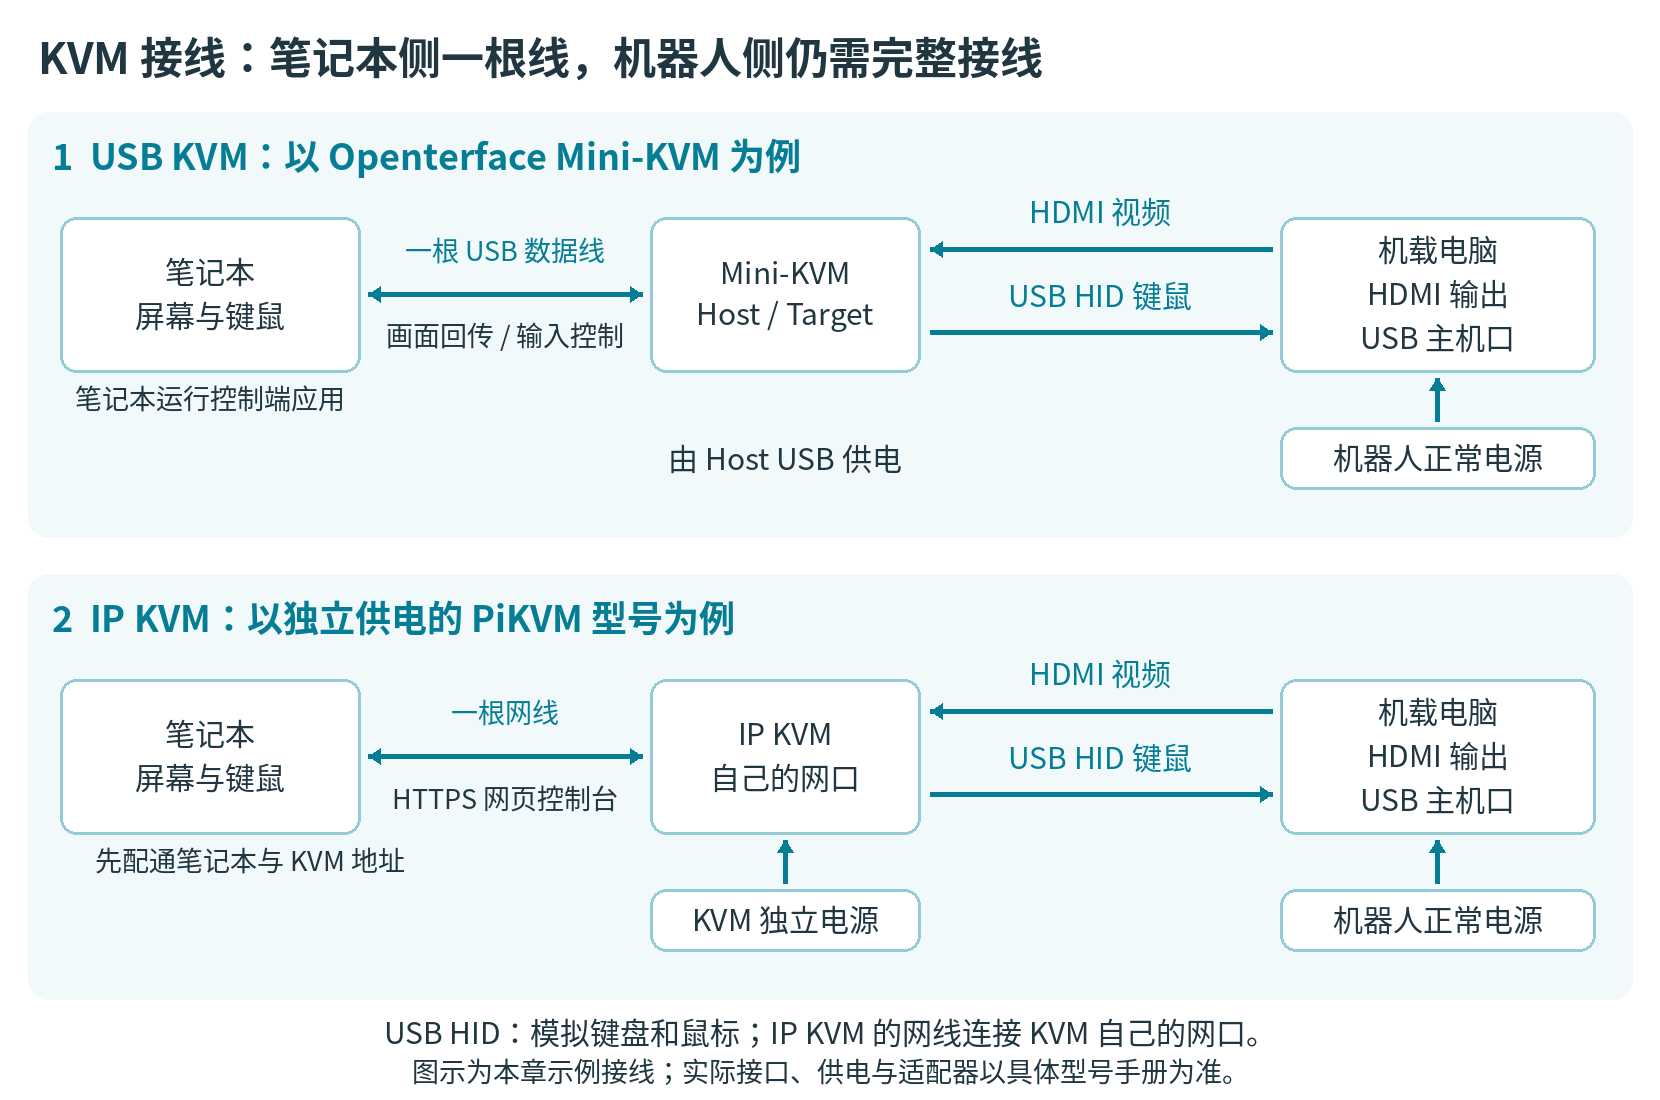
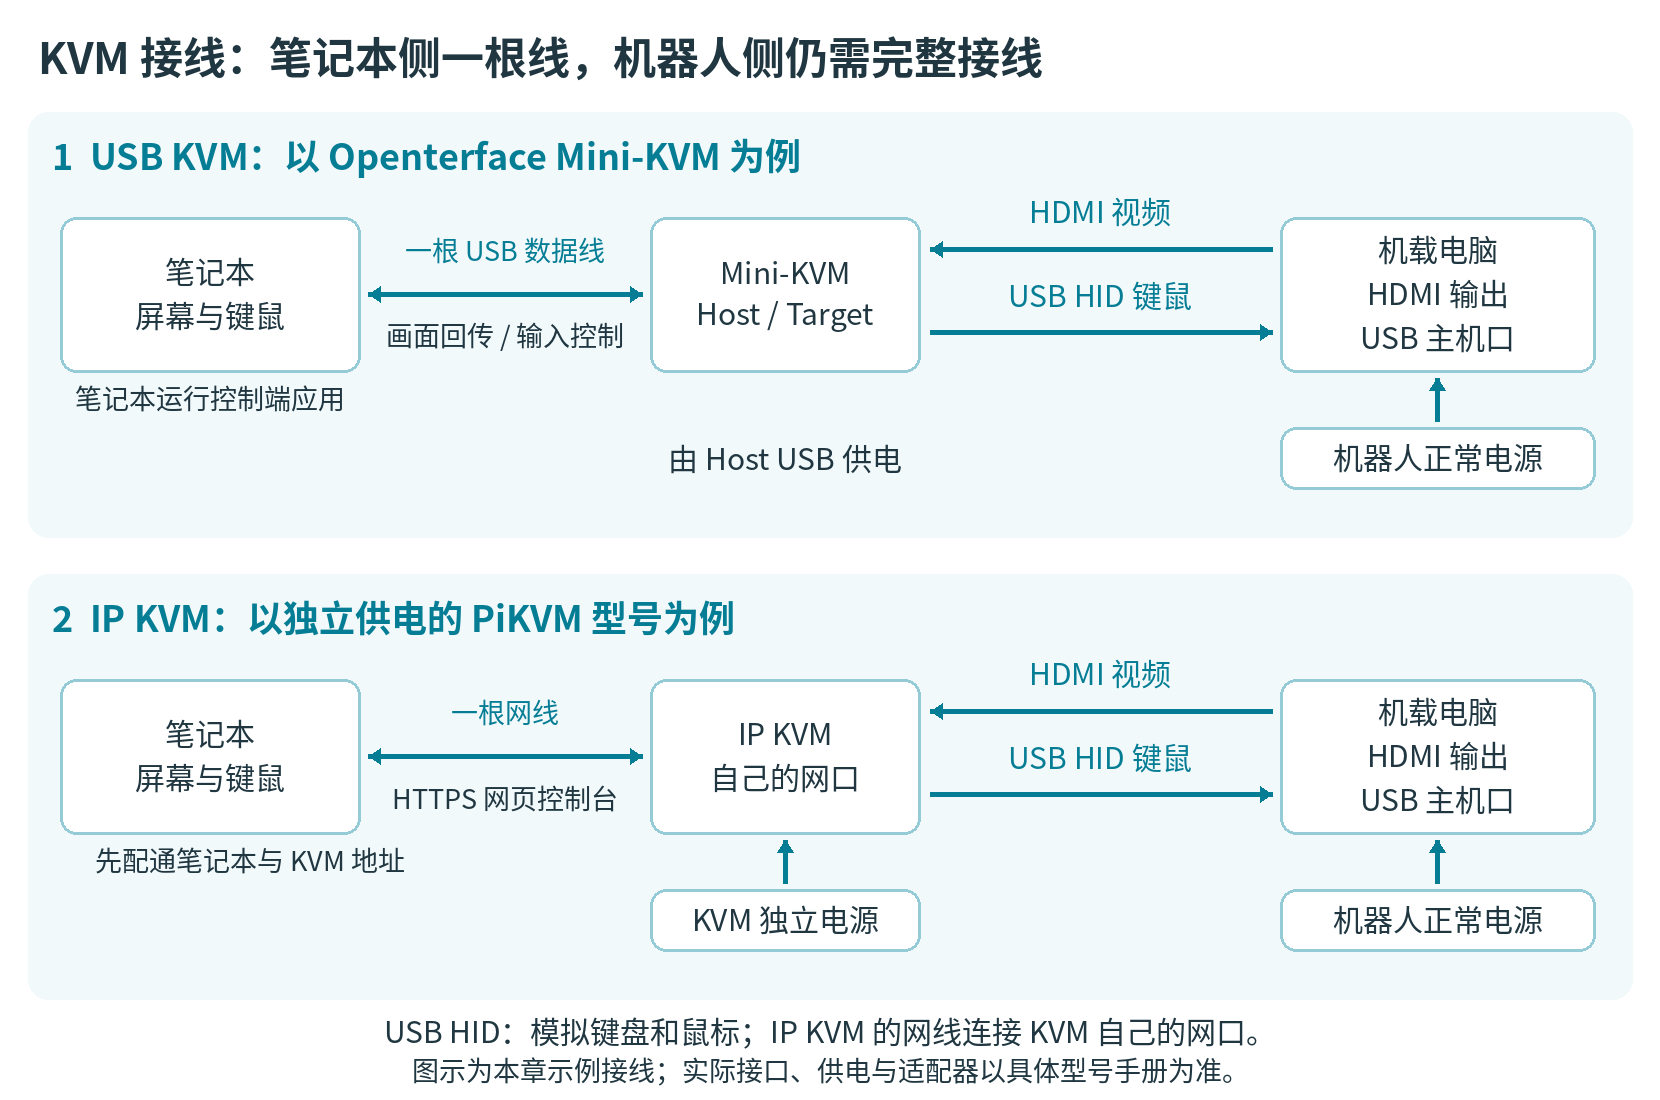
fix: 修正部署示意图误用日文字形的问题

diff --git a/scripts/render_deployment_kvm.py b/scripts/render_deployment_kvm.py
@@ -14,10 +14,14 @@ def main():
     args.output_dir.mkdir(parents=True, exist_ok=True)
     regular = '/usr/share/fonts/noto-cjk/NotoSansCJK-Regular.ttc'
     bold = '/usr/share/fonts/noto-cjk/NotoSansCJK-Bold.ttc'
-    font = ImageFont.truetype(regular, 30)
-    small = ImageFont.truetype(regular, 27)
-    heading = ImageFont.truetype(bold, 36)
-    title = ImageFont.truetype(bold, 43)
+    # TTC 默认第 0 项是日文字形；第 2 项才是简体中文 SC。
+    font = ImageFont.truetype(regular, 30, index=2)
+    small = ImageFont.truetype(regular, 27, index=2)
+    heading = ImageFont.truetype(bold, 36, index=2)
+    title = ImageFont.truetype(bold, 43, index=2)
+    if any(face.getname()[0] != 'Noto Sans CJK SC'
+           for face in (font, small, heading, title)):
+        raise ValueError('字体合集的第 2 项不是简体中文 SC，请核对字体文件')
     canvas = Image.new('RGB', (1660, 1100), 'white')
     draw = ImageDraw.Draw(canvas)
     ink, cyan, outline = '#203741', '#057D95', '#95CBD6'

diff --git a/scripts/render_deployment_network.py b/scripts/render_deployment_network.py
@@ -14,10 +14,14 @@ def main():
     args.output_dir.mkdir(parents=True, exist_ok=True)
     regular = '/usr/share/fonts/noto-cjk/NotoSansCJK-Regular.ttc'
     bold = '/usr/share/fonts/noto-cjk/NotoSansCJK-Bold.ttc'
-    font = ImageFont.truetype(regular, 31)
-    small = ImageFont.truetype(regular, 28)
-    heading = ImageFont.truetype(bold, 36)
-    title = ImageFont.truetype(bold, 44)
+    # TTC 默认第 0 项是日文字形；第 2 项才是简体中文 SC。
+    font = ImageFont.truetype(regular, 31, index=2)
+    small = ImageFont.truetype(regular, 28, index=2)
+    heading = ImageFont.truetype(bold, 36, index=2)
+    title = ImageFont.truetype(bold, 44, index=2)
+    if any(face.getname()[0] != 'Noto Sans CJK SC'
+           for face in (font, small, heading, title)):
+        raise ValueError('字体合集的第 2 项不是简体中文 SC，请核对字体文件')
     canvas = Image.new('RGB', (1540, 1060), 'white')
     draw = ImageDraw.Draw(canvas)
     ink, cyan, line = '#203741', '#057D95', '#95CBD6'

diff --git a/docs/revision/volume-1-chapter-5.md b/docs/revision/volume-1-chapter-5.md
@@ -75,3 +75,7 @@
 实际检查封面/导览、目录、新章全部页面、修订小结与新增题解；将直连 nmcli 续行命令、短目录树和 PiKVM 五行代码的分页整理后，再检查所有受影响页，确认没有孤立目录行或代码框底边。页码与题解定位最后再次核对。与修改前 PDF 比较，原第1–4章对应物理10–206页文字完全一致；卷二/卷三封面前后渲染逐像素一致。
 
 本章20项检查为19项通过、1项未完成（第19项真实环境操作）；未完成范围完整列在上节，没有把文档、静态配置或本机小项目验证写成机器人验收。最终 PDF/配图指纹与检查范围见 `pdf-check.json`，命令和已保留提示见 `build-summary.txt`。
+
+## 配图字体修正（同日追加）
+
+根据图 5.4 的阅读反馈，修正 `render_deployment_network.py` 默认选中 Noto Sans CJK TTC 第 0 项（JP 日文字形）的问题，明确选择第 2 项（SC 简体中文）并核验字体族名称。图 5.6 的 KVM 图使用同样设置，故同步修正；两张图片沿用已有 `_revised` 路径，尺寸、文案与结构保持一致，旧版由 Git 保存。重新生成后查看候选图，并重新编译、检查图 5.4 与图 5.6 所在页面；结果见 `font-fix.json`。此次没有改变正文、题量、示例程序或实机验收范围。

diff --git a/01-基础通识/images/deployment/README-network.md b/01-基础通识/images/deployment/README-network.md
@@ -26,3 +26,7 @@
 ## 验证边界
 
 此处完成官方资料核对、图片生成及查看，未为本教材更改任何主机名、网络连接、账户、Tailscale 设置或防火墙。Ubuntu 双端网线、mDNS 跨设备、跨互联网 SSH、客户端隔离及实际设备密钥续期需在获准设备验证；不能据文档命令宣称实机完成。
+
+## 字体修正
+
+2026-10-31 按图 5.4 的阅读反馈修正自绘图字体：Noto Sans CJK 的 TTC 文件默认第 0 项是日文字形 JP，脚本现明确选择第 2 项简体中文 SC，并检查实际字体族名称，防止静默选错。图 5.4 与同源设置的图 5.6 同步重新生成，保持原有尺寸、文字和接线关系；沿用已有 `_revised` 文件名，旧图保存在 Git 历史。候选图及书中实际尺寸均须重新查看。
